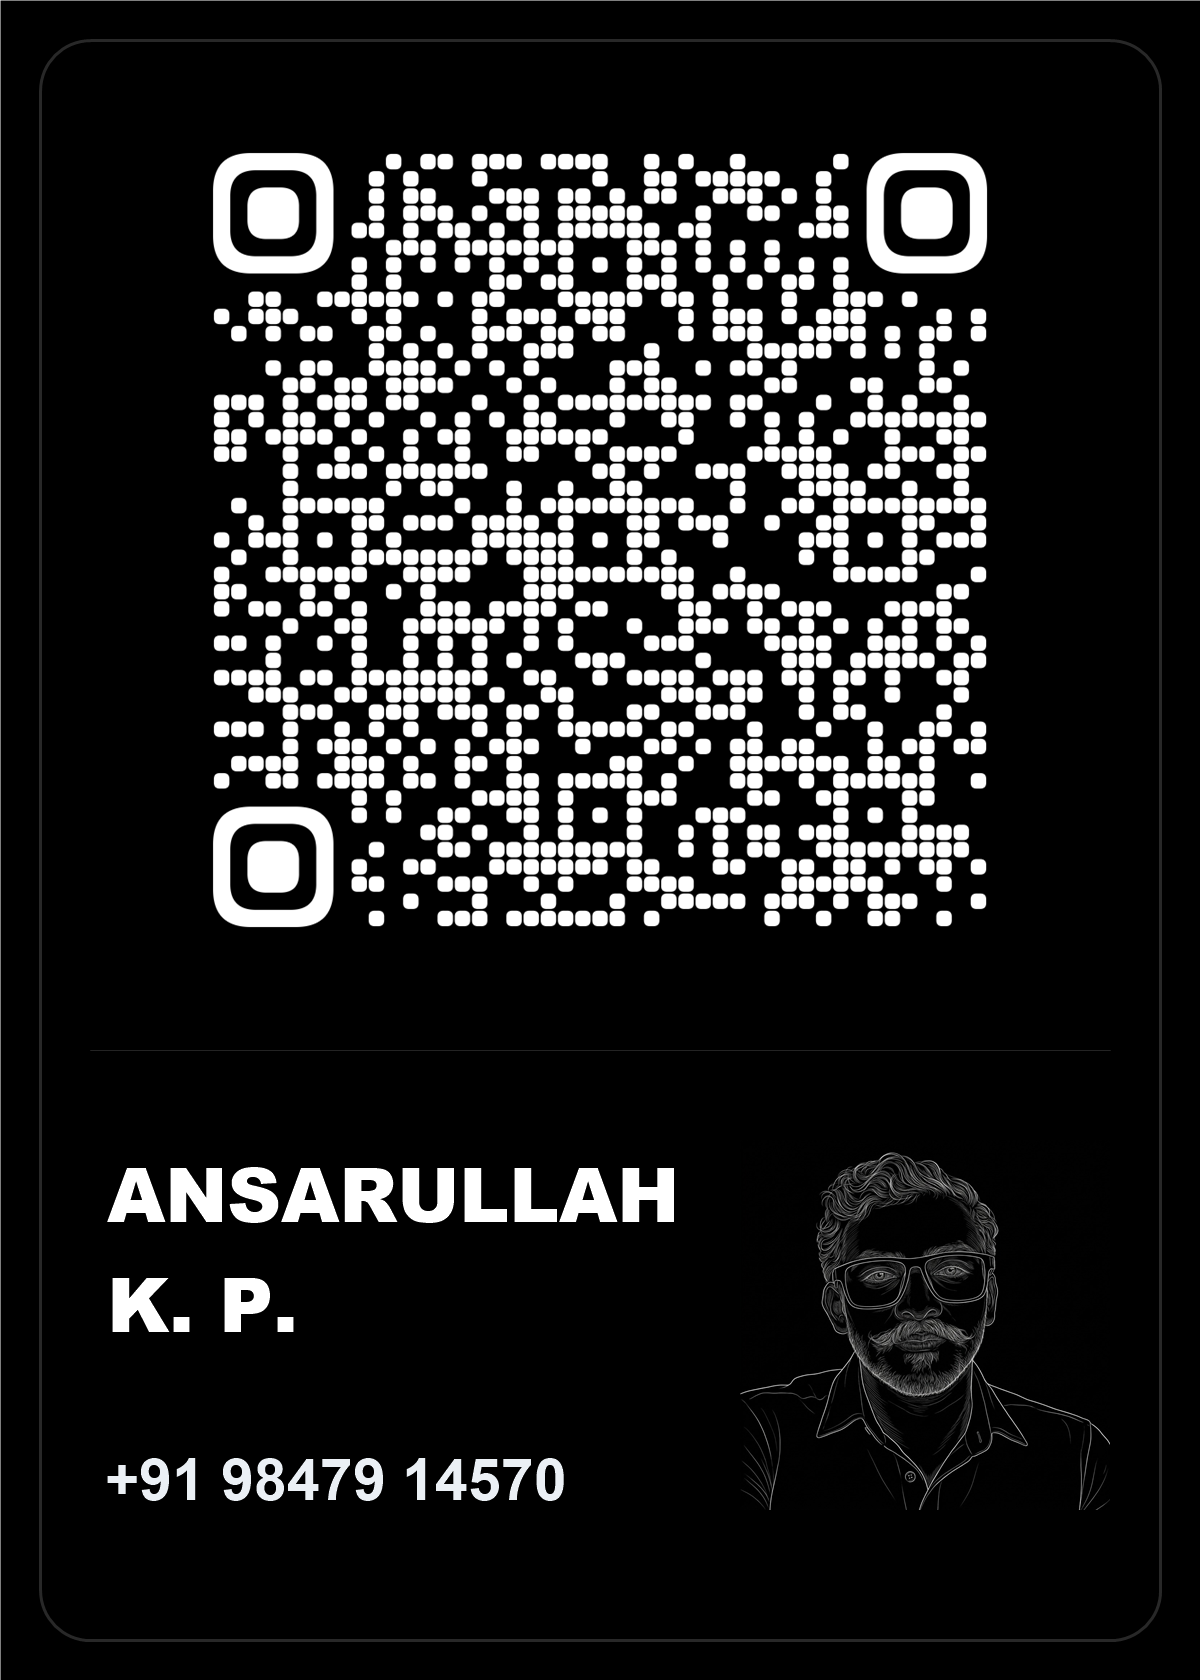
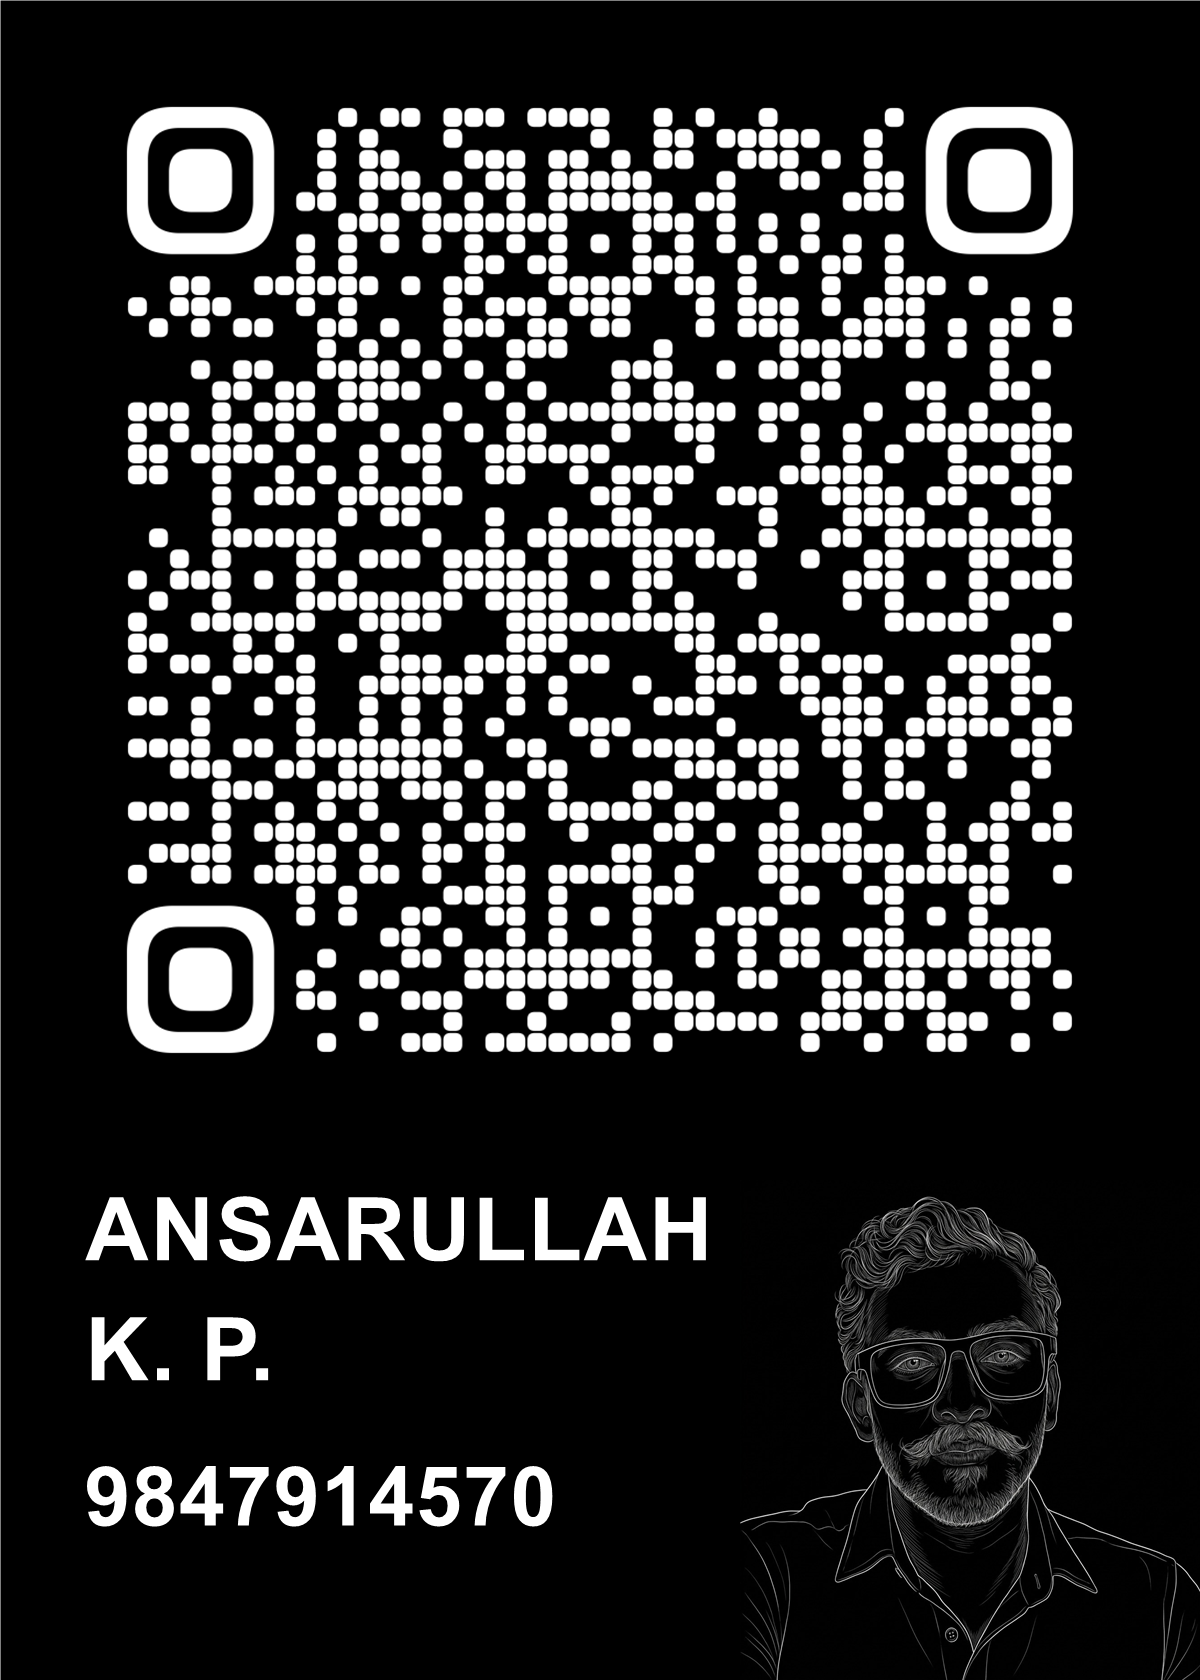
Update visiting card: borderless solid black, huge aesthetic QR, two-line bold name, 10-digit number, and flush bottom-right bust

diff --git a/card.html b/card.html
@@ -60,6 +60,8 @@
         transform: translate(-50%, -50%) !important;
         background: #000000 !important;
         box-shadow: none !important;
+        border: none !important;
+        border-radius: 0 !important;
       }
       .no-print {
         display: none !important;
@@ -114,42 +116,39 @@
     <!-- Left: Name Line 1 (capital), Name Line 2 (capital), Mobile  -->
     <!-- Right: Image of person in free space                         -->
     <!-- ============================================================ -->
-    <div id="print-card-wrapper" class="w-full max-w-[360px] aspect-[12/17] min-h-[510px] visiting-card-matte rounded-[32px] p-5 flex flex-col justify-between relative overflow-hidden select-none">
+    <div id="print-card-wrapper" class="w-full max-w-[360px] aspect-[12/17] min-h-[510px] visiting-card-matte rounded-[32px] pt-4 px-4 sm:pt-5 sm:px-5 pb-0 flex flex-col justify-between relative overflow-hidden select-none">
       
       <!-- TOP SECTION: BIG AESTHETIC QR CODE -->
-      <div class="h-[60%] flex items-center justify-center relative pt-1">
-        <div id="card-qr-container" class="w-[230px] h-[230px] sm:w-[250px] sm:h-[250px] flex items-center justify-center bg-black">
+      <div class="h-[65%] flex items-center justify-center relative pt-1">
+        <div id="card-qr-container" class="w-[260px] h-[260px] sm:w-[285px] sm:h-[285px] flex items-center justify-center bg-black">
           <!-- Inverted aesthetic white QR code injected here -->
         </div>
       </div>
 
-      <!-- Subtle Thin Divider Line -->
-      <div class="w-full h-px bg-gradient-to-r from-transparent via-white/20 to-transparent my-1"></div>
-
-      <!-- BOTTOM SECTION: TEXT ON LEFT, IMAGE MATCHING HEIGHT ON RIGHT -->
-      <div class="h-[38%] flex items-stretch justify-between relative pt-1 pb-1">
+      <!-- BOTTOM SECTION: TEXT ON LEFT, BUST ON RIGHT (MATCHING EXACT SKETCH) -->
+      <div class="h-[35%] flex items-end justify-between relative">
         
-        <!-- Left Side: Two-Line Capital Name + Mobile Number -->
-        <div class="flex-1 z-10 flex flex-col justify-between pr-2">
+        <!-- Left Side: Two-Line Capital Name + 10-digit Mobile Number -->
+        <div class="flex-1 z-10 flex flex-col justify-between h-full pt-1 pb-4 sm:pb-5 pr-2">
           <div>
             <!-- First Name (Strong Capital) -->
-            <div id="card-first-name" class="text-xl sm:text-2xl font-black text-white uppercase tracking-tight leading-tight font-mono-brand">
+            <div id="card-first-name" class="text-2xl sm:text-[26px] font-black text-white uppercase tracking-tight leading-none font-mono-brand">
               ANSARULLAH
             </div>
             <!-- Second Line Strong Capital (e.g. K. P.) -->
-            <div id="card-last-name" class="text-xl sm:text-2xl font-black text-white uppercase tracking-tight leading-tight font-mono-brand mt-0.5">
+            <div id="card-last-name" class="text-2xl sm:text-[26px] font-black text-white uppercase tracking-tight leading-none font-mono-brand mt-1">
               K. P.
             </div>
           </div>
-          <!-- Mobile Number (Bottom aligned) -->
-          <div id="card-phone" class="text-xs sm:text-sm font-bold text-zinc-200 font-mono tracking-wider">
-            +91 98479 14570
+          <!-- 10-digit Mobile Number (Bottom aligned) -->
+          <div id="card-phone" class="text-base sm:text-lg font-bold text-white font-mono tracking-tight">
+            9847914570
           </div>
         </div>
 
-        <!-- Right Side: Bust Portrait in Free Space (Top aligns with Name, Bottom with Mobile) -->
-        <div class="w-[95px] sm:w-[110px] h-full shrink-0 pointer-events-none flex items-center justify-center">
-          <img id="card-person-img" src="assets/ansar-lineart.jpg" alt="Portrait" class="w-full h-full object-contain select-none">
+        <!-- Right Side: Bust Portrait flush to bottom right (Top aligns with Name) -->
+        <div class="w-[125px] sm:w-[145px] h-full shrink-0 pointer-events-none flex items-end justify-end">
+          <img id="card-person-img" src="assets/ansar-lineart.jpg" alt="Portrait" class="w-full h-auto max-h-full object-contain object-bottom select-none">
         </div>
 
       </div>
@@ -357,7 +356,8 @@
 
         cardFirstName.textContent = firstName;
         cardLastName.textContent = lastName;
-        cardPhone.textContent = partner.phoneDisplay;
+        const cleanPhone = (partner.whatsapp ? partner.whatsapp.replace(/^91/, '') : partner.phoneRaw.replace(/^\+91/, '')).replace(/\s+/g, '');
+        cardPhone.textContent = cleanPhone;
 
         // Image of person (Line Art bust)
         const b64 = (typeof portraitLineartData !== 'undefined' && portraitLineartData[partnerId])
@@ -370,7 +370,7 @@
         cardQrContainer.innerHTML = '';
         const baseUrl = window.location.href.split('#')[0].split('?')[0].replace('card.html', 'index.html');
         const cardUrl = `${baseUrl}?profile=${partnerId}`;
-        const qrCanvas = generateQrCanvas(cardUrl, 480);
+        const qrCanvas = generateQrCanvas(cardUrl, 560);
         qrCanvas.className = 'w-full h-full object-contain';
         cardQrContainer.appendChild(qrCanvas);
 
@@ -391,15 +391,39 @@
 
       // ============================================================
       // 300 DPI HQ PRINT CARD DOWNLOAD ENGINE (PURE #000000 BLACK)
-      // Exact User Red-Sketch Layout:
-      // Top ~60%: Big aesthetic QR Code
-      // Bottom Left: Name line 1 (capital), Name line 2 (capital), Mobile
-      // Bottom Right: Line-art bust of person
+      // Exact User Specification & Reference:
+      // Top ~65%: Big aesthetic QR Code (1100x1100)
+      // Bottom Left: Name line 1 (capital), Name line 2 (capital), 10-digit Mobile
+      // Bottom Right: Line-art bust of person flush to bottom-right
+      // Pure solid #000000 black, no borders, no separator lines.
       // ============================================================
       btnDownloadCard.addEventListener('click', async () => {
-        showToast('Generating 300 DPI Card...');
+        showToast('Preparing 300 DPI Card...');
         const partner = siteConfig.partners[activePartner];
-        const filename = `Nexus_VisitingCard_${partner.name.replace(/[^a-zA-Z0-9]/g, '_')}.png`;
+        const isPartner1 = activePartner === 'partner1';
+        const filename = isPartner1 ? 'Nexus_VisitingCard_Asadullah.png' : 'Nexus_VisitingCard_Ansarullah.png';
+        const preRenderedUrl = `assets/${filename}`;
+
+        // Attempt direct download of pre-rendered 300 DPI master card first
+        try {
+          const res = await fetch(preRenderedUrl, { method: 'HEAD' });
+          if (res.ok) {
+            const a = document.createElement('a');
+            a.href = preRenderedUrl;
+            a.download = filename;
+            document.body.appendChild(a);
+            a.click();
+            setTimeout(() => document.body.removeChild(a), 2000);
+
+            modalCardPreview.src = preRenderedUrl;
+            modalDownloadLink.href = preRenderedUrl;
+            modalDownloadLink.download = filename;
+            showToast('✅ Visiting card downloaded!');
+            return;
+          }
+        } catch (e) {
+          // If fetch fails (e.g. file:/// restrictions), fallback to offline canvas rendering below
+        }
 
         try {
           const W = 1200;
@@ -409,70 +433,54 @@
           canvas.height = H;
           const ctx = canvas.getContext('2d');
 
-          // 1. Pure #000000 Black Background
+          // 1. Pure #000000 Black Background (No card border stroke)
           ctx.fillStyle = '#000000';
           ctx.fillRect(0, 0, W, H);
 
-          // 2. Rounded Outer Card Border
-          ctx.strokeStyle = 'rgba(255, 255, 255, 0.15)';
-          ctx.lineWidth = 3;
-          ctx.beginPath();
-          drawRoundedRect(ctx, 40, 40, W - 80, H - 80, 50);
-          ctx.stroke();
-
-          // 3. TOP SECTION: Big QR Code (900x900)
+          // 2. TOP SECTION: Huge QR Code (1100x1100) centered at X=50, Y=50 (No divider line)
           const baseUrl = window.location.href.split('#')[0].split('?')[0].replace('card.html', 'index.html');
           const cardUrl = `${baseUrl}?profile=${activePartner}`;
-          const qrCanvas = generateQrCanvas(cardUrl, 900);
-          ctx.drawImage(qrCanvas, 150, 90, 900, 900);
+          const qrCanvas = generateQrCanvas(cardUrl, 1100);
+          ctx.drawImage(qrCanvas, 50, 50, 1100, 1100);
 
-          // 4. Subtle Separator Line
-          ctx.strokeStyle = 'rgba(255, 255, 255, 0.15)';
-          ctx.lineWidth = 2;
-          ctx.beginPath();
-          ctx.moveTo(90, 1050);
-          ctx.lineTo(W - 90, 1050);
-          ctx.stroke();
+          // 3. BOTTOM SECTION: Starts at Y=1180
+          const bottomTop = 1180;
+          const portW = 460;
+          const portH = 500;
+          const portX = W - portW; // 740, flush right
+          const portY = H - portH; // 1180, flush bottom
 
-          // 5. EXACT ALIGNMENT: Top of Name to Bottom of Mobile Number
-          const blockTop = 1140;
-          const blockBottom = 1510;
-          const blockHeight = blockBottom - blockTop; // 370 px
-
-          // Load and Draw Person's Bust Image (Right Side, Top = Name Top, Bottom = Mobile Bottom)
           const b64 = (typeof portraitLineartData !== 'undefined' && portraitLineartData[activePartner])
             ? portraitLineartData[activePartner]
             : (activePartner === 'partner1' ? 'assets/asad-lineart.jpg' : 'assets/ansar-lineart.jpg');
 
           const portraitImg = new Image();
           portraitImg.onload = () => {
-            const imgSize = blockHeight; // 370 px
-            const imgX = W - imgSize - 90; // 740
-            const imgY = blockTop; // 1140
-            ctx.drawImage(portraitImg, imgX, imgY, imgSize, imgSize);
+            // Draw bust flush at bottom right
+            ctx.drawImage(portraitImg, portX, portY, portW, portH);
 
-            // 6. BOTTOM LEFT: Text
-            const textX = 95;
+            // Left side text: Top aligns with top of hair (Y=1180)
+            const textX = 70;
             const nameParts = partner.name.trim().split(' ');
             const firstName = nameParts[0].toUpperCase();
             const lastName = nameParts.slice(1).join(' ').toUpperCase();
+            const cleanPhone = (partner.whatsapp ? partner.whatsapp.replace(/^91/, '') : partner.phoneRaw.replace(/^\+91/, '')).replace(/\s+/g, '');
 
-            // Line 1: First Name (strong capital)
+            // Line 1: First Name (strong bold capital)
             ctx.fillStyle = '#ffffff';
             ctx.textAlign = 'left';
-            ctx.font = '900 56px "Space Grotesk", sans-serif';
-            ctx.fillText(firstName, textX, blockTop + 55);
+            ctx.font = 'bold 74px Arial, "Space Grotesk", sans-serif';
+            ctx.fillText(firstName, textX, bottomTop + 75);
 
-            // Line 2: Last Name on second line (strong capital)
-            ctx.font = '900 56px "Space Grotesk", sans-serif';
-            ctx.fillText(lastName, textX, blockTop + 165);
+            // Line 2: Last Name on second line (strong bold capital)
+            ctx.font = 'bold 74px Arial, "Space Grotesk", sans-serif';
+            ctx.fillText(lastName, textX, bottomTop + 170);
 
-            // Line 3: Mobile Number (aligned with bottom of image)
-            ctx.fillStyle = '#e2e8f0';
-            ctx.font = '700 44px monospace, "Space Grotesk", sans-serif';
-            ctx.fillText(partner.phoneDisplay, textX, blockBottom - 15);
+            // Line 3: 10-digit mobile number
+            ctx.font = 'bold 62px Arial, monospace, sans-serif';
+            ctx.fillText(cleanPhone, textX, bottomTop + 335);
 
-            // 7. Trigger HQ Download
+            // 4. Trigger HQ Download
             canvas.toBlob((blob) => {
               if (blob) {
                 const url = URL.createObjectURL(blob);
